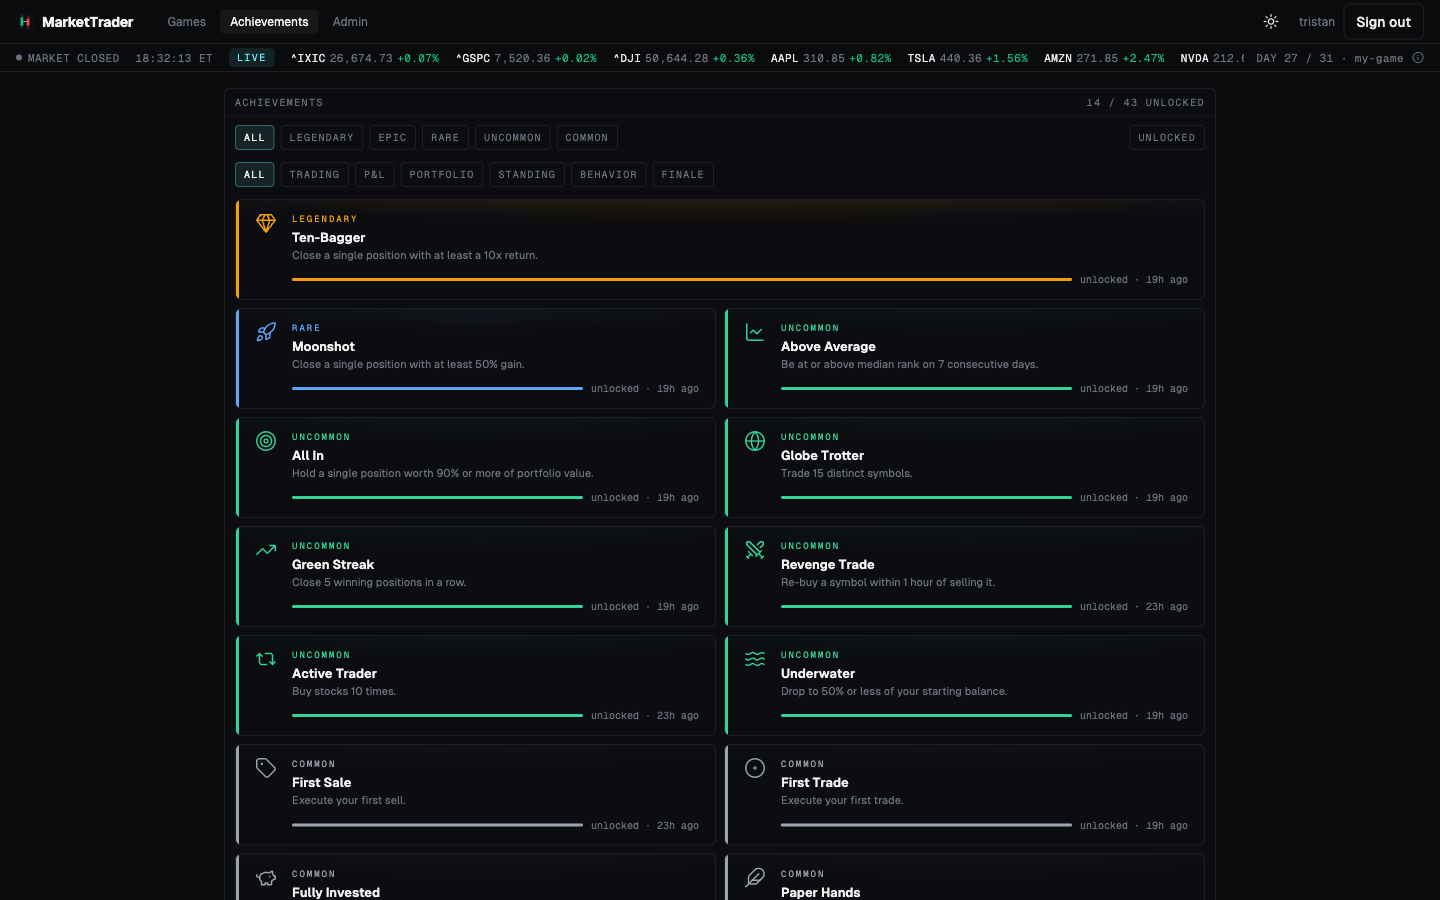
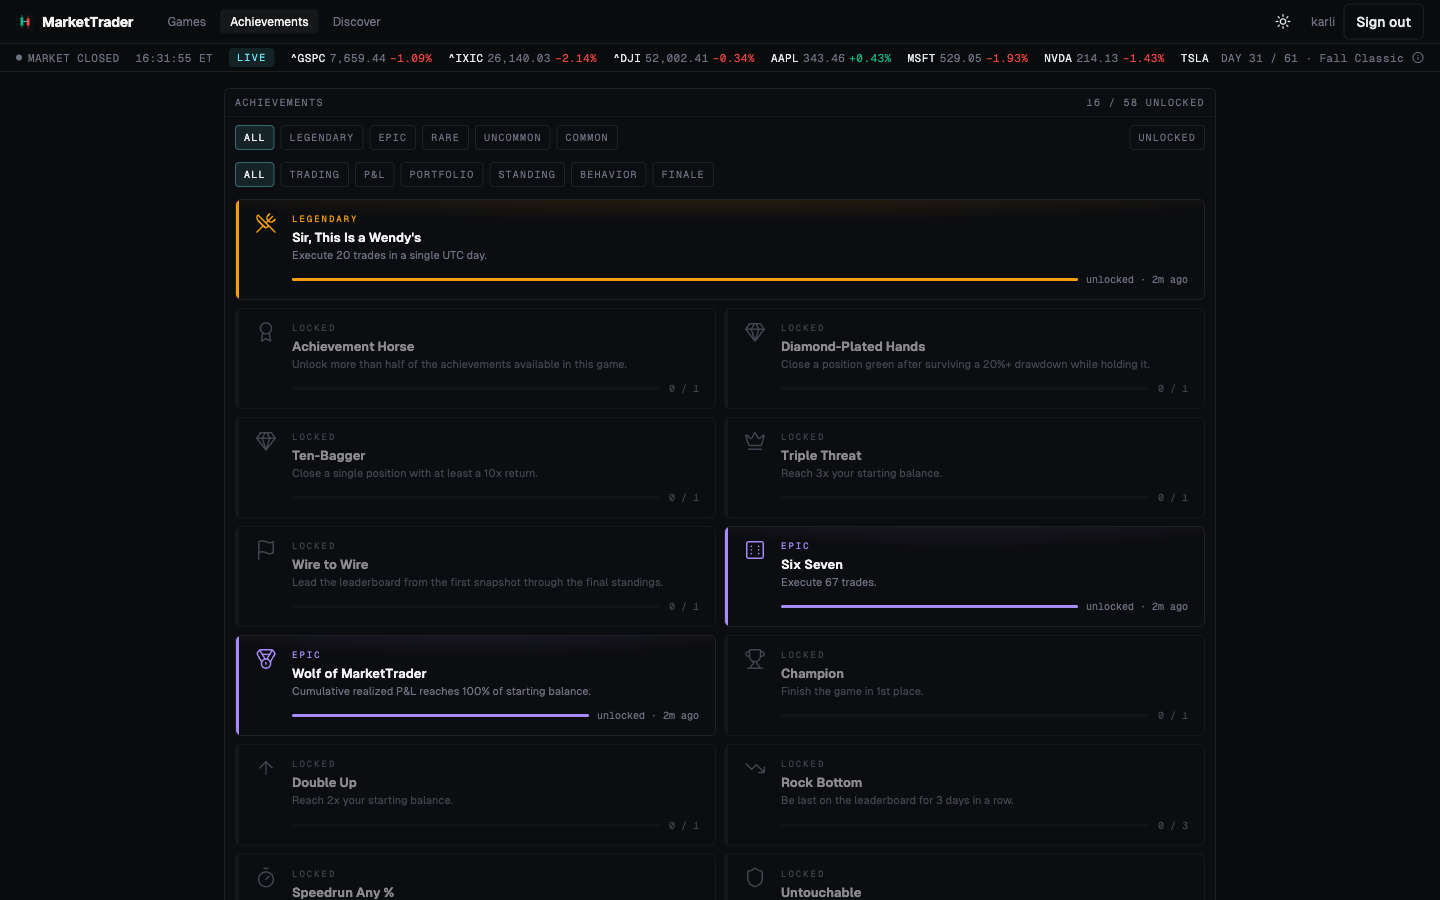
Readme improvement

diff --git a/README.md b/README.md
@@ -4,272 +4,176 @@ A virtual stock trading tournament platform. Groups of friends create a **game**
 
 ![MarketTrader arena view](docs/screenshots/hero.png)
 
-## AI Disclaimer
-
-This project is being developped entirely by an AI (Claude Code). Each commit generated by Claude is signed by Claude. It received minimal human supervision.
-
-Use at your own risk as I make no guarantee about the correctness, security, or reliability of the codebase.
-
-## What It Does
-
-Create a game, invite friends, and trade real stocks at live market prices with virtual cash. The platform tracks portfolio value continuously, broadcasts every leaderboard change over WebSocket, and rewards consistent (or chaotic) play with [43 unlockable achievements](docs/achievements.md) across six categories.
-
-Behind the trading desk: market / limit / stop / stop-limit / bracket orders, GTC time-in-force, watchlists, historical sparklines, light/dark themes, and a full admin panel for operators.
+> **AI disclaimer.** This project is being developed entirely by an AI (Claude Code). Each commit generated by Claude is signed by Claude. It received minimal human supervision. Use at your own risk as I make no guarantee about the correctness, security, or reliability of the codebase.
 
 ## Features
 
-**Authentication & users**
-
-- Registration and login with JWT access tokens + HttpOnly refresh cookies
-- Admin role with elevated permissions across users, games, trades, and audits
-
 **Games**
 
-- Create, join, and list tournaments; status auto-recomputed (`pending` / `active` / `ended`)
-- Per-game configurable rules: short selling, allowed order types, starting balance, achievements on/off
-- Public "featured games" leaderboards visible without an account
+- Create public or private tournaments, share them with an invite link, or browse open public games
+- Per-game rules: starting balance, duration, allowed order types, GTC on/off, achievements on/off
+- Featured-game leaderboards on the login page, visible without an account
 
 **Trading**
 
-- Five order types: market, limit, stop, stop-limit, bracket (take-profit + stop-loss legs)
-- Day or GTC time-in-force; working-order queue with cancel
-- Pending-trade and trade-history endpoints; portfolio snapshots updated in real time
+- Market, limit, stop, stop-limit, and bracket (take-profit + stop-loss) orders, day or GTC
+- Market-hours aware: orders placed while the market is closed settle at the next open
+- Live portfolio value and P&L, plus full trade history
 
-**Market data**
+**Research**
 
-- Pluggable `StockProvider` interface (Yahoo Finance default; swap to Alpaca or Polygon via `STOCK_PROVIDER`)
-- Live quotes (price, change, change %), OHLC bars, market status (open / closed / pre / after)
-- Symbol search and a per-symbol detail page
+- Candlestick or line charts with volume and markers for your own trades
+- **Discover** page: daily S&P 500 picks per game, plus top gainers, losers, most active, and trending
+- **AI analysis** (optional): one click returns a BUY / HOLD / SELL verdict with bull and bear points, generated server-side through OpenRouter and cached for every player
+- Watchlists with free-form per-symbol notes; symbol search and a detail page per ticker
 
-**Real-time arena**
+**Compete**
 
-- Three-pane responsive grid: portfolio, ticker tape, quote header, TradingView chart, holdings, watchlist, activity, leaderboard, symbol search
-- Live WebSocket updates for prices, leaderboard ranks, and trade fills
-- Collapses to single column on narrow viewports
+- Live leaderboard over WebSocket, with per-player sparklines and a full page with race chart and podium
+- [Unlockable achievements](docs/achievements.md) across five rarity tiers, with progress tracking toward each one and an unlock toast when you earn it
+- Activity feed of trades and peer unlocks in the arena's right rail
 
-**Leaderboard**
+**Operate**
 
-- Live ranking by total portfolio value
-- Per-player sparklines with 1D / 5D / 10D / ALL ranges
-- Full leaderboard page with race chart, podium, and detailed standings
-
-**Achievements**
-
-- 43 unlockable badges across six categories (Trading, P&L, Portfolio, Standing, Behavior, Finale) with five rarity tiers from common to legendary
-- Two-beat unlock toast with rarity-colored glow, ring pulse, icon flare
-- Locked achievements are hidden from the player so unlocks stay surprising — only an "N more locked" tile reveals the count
-- See [docs/achievements.md](docs/achievements.md) for the full catalogue with preview images
-
-**Activity feed**
-
-- Merged chronological view of trades and peer achievement unlocks in the arena's right rail
-- Persists across reloads via WebSocket connect-time replay
-- Idempotent merge so REST seeds and live broadcasts never duplicate
-
-**Admin panel**
-
-- User and game CRUD; portfolio snapshot inspection; trade audit log
-- Per-game and platform-wide enable/disable per achievement
-- Force-unlock, reset, and set-progress per player + achievement (broadcasts a live toast to the target)
-- System view with WebSocket connection count, row counts per table, and price-cache controls
-
-**Resilient transport**
-
-- WebSocket auto-reconnect with exponential backoff and full unacked-unlock replay
-- REST seeds dedupe against live WebSocket broadcasts via composite keys
-
-**UX polish**
-
-- Light and dark theme (toggle persisted to localStorage)
-- `prefers-reduced-motion` honored across every animation
-- Geist Sans + Geist Mono with tabular numerals so currency columns line up
+- Admin panel: users, games, portfolios, trade audit log, achievement grants and resets, system stats
+- Live configuration: change cache TTLs, worker intervals, throttles and caps from `/admin/config` without a restart
+- Per-user abuse limits (rates, quotas, socket caps) with overrides, probation for new accounts, and a usage dashboard
+- Optional OpenTelemetry traces/metrics/logs and PostHog analytics. Both are off unless configured
+- Light and dark themes, responsive layout, `prefers-reduced-motion` honored throughout
 
 ## Tour
 
-> Screenshots may lag behind the latest UI — `pnpm dev` and click around to see the live version.
+> Screenshots may lag behind the latest UI. Run `pnpm dev` and click around to see the live version.
 
 ### Arena
 
 ![Arena: portfolio, chart, holdings, watchlist, leaderboard, activity](docs/screenshots/arena.png)
 
-_The main trading view. Portfolio on the left, TradingView chart and holdings down the middle, watchlist and activity feed on the right, live leaderboard underneath._
+_The main trading view. Portfolio and holdings are on the left. The leaderboard, quote and chart sit in the center, with candlesticks, volume, your buys and your average cost. Discover picks, the watchlist and the activity feed are on the right._
+
+### Discover
+
+![Discover: daily S&P 500 picks and market movers](docs/screenshots/discover.png)
+
+_Twenty S&P 500 stocks drawn for this game each session, plus the previous session's top gainers, losers, most active, and trending._
+
+### AI analysis
+
+![Analysis panel: BUY verdict, summary, bull and bear case](docs/screenshots/analysis.png)
+
+_One click on **Analyze** returns a verdict with a summary and bull and bear points. A cached result is free for every other player who asks._
 
 ### Leaderboard
 
 ![Leaderboard: race chart, podium, standings, sparklines](docs/screenshots/leaderboard.png)
 
-_Race chart traces every player's portfolio value over the game's history. The podium pins the top three; the standings table below carries inline sparklines per player._
+_The race chart traces every player's portfolio value over the game. The podium pins the top three, and the standings carry inline sparklines._
 
 ### Achievements
 
-![Achievements page: rarity-colored cards plus a locked-count placeholder](docs/screenshots/achievements.png)
+![Achievements page: rarity-colored unlocked cards beside locked cards with progress](docs/screenshots/achievements.png)
 
-_Unlocked cards only — locked achievements stay hidden. The trailing "N more locked" tile tells the player there's more to discover without spoiling the surprise._
-
-## Architecture
-
-```
-packages/
-  server/     ← Fastify 5 REST API + WebSocket server (Node.js + TypeScript)
-  frontend/   ← React 19 + Vite SPA
-  shared/     ← TypeScript types only — API contracts shared between server and frontend
-```
-
-pnpm workspace monorepo. The `shared` package is the single source of truth for all API types — changes to the API surface produce TypeScript errors in both the server and the frontend before they reach runtime.
-
-## Tech Stack
-
-| Layer               | Choice                         | Why                                                       |
-| ------------------- | ------------------------------ | --------------------------------------------------------- |
-| Package manager     | pnpm workspaces                | Fast, disk-efficient, strict hoisting                     |
-| Server framework    | Fastify 5                      | Lowest overhead, schema-first, async-native               |
-| ORM                 | Drizzle ORM                    | Type-safe SQL, zero runtime overhead, dual-dialect        |
-| Database (prod)     | PostgreSQL 16                  | ACID, proven at scale                                     |
-| Database (dev/test) | SQLite (@libsql/client)        | Zero setup, in-memory for tests                           |
-| WebSocket           | `@fastify/websocket`           | Native Fastify integration, no Socket.io overhead         |
-| Auth                | JWT + argon2                   | Short-lived access tokens (15 min), 7-day refresh cookies |
-| Frontend framework  | React 19                       | Concurrent features, stable ecosystem                     |
-| Build tool          | Vite 6                         | Fastest HMR, native ESM, first-class TypeScript           |
-| Charts              | TradingView Lightweight Charts | Purpose-built for financial data                          |
-| UI components       | ShadCN/UI + Tailwind CSS       | Copy-own components, utility-first styling                |
-| Server state        | React Query v5                 | Caching, background refresh, optimistic updates           |
-| Client state        | Zustand                        | Minimal, zero-boilerplate global state                    |
-| Stock data          | Pluggable `StockProvider`      | Yahoo Finance default, swap to Alpaca/Polygon via env var |
+_Unlocked cards glow in their rarity color. Locked ones show what's needed and how far along you are, filterable by rarity and category._
 
 ## Getting Started
 
-### Prerequisites
-
-- Node.js 26+ (an `.nvmrc` is provided — `nvm use` picks it up)
-- Corepack — no longer bundled with Node 26: `npm install -g corepack`
-- pnpm (via corepack): `corepack enable`
-- Docker (optional, for PostgreSQL in dev)
-
-### Local development with SQLite
+**Prerequisites:** Node.js 26+ (`nvm use` reads `.nvmrc`), and pnpm via Corepack (`npm install -g corepack && corepack enable`). Corepack no longer ships with Node 26.
 
 ```bash
 pnpm install
 pnpm dev
 ```
 
-That's it. `pnpm dev` runs a small bootstrap step that:
+`pnpm dev` creates `.env` from `.env.example` if it is missing and generates a real `JWT_SECRET`. It then starts the server on `:3000` and the frontend on `:5173`. The frontend proxies `/api` to the server. The default database is SQLite at `./dev.db`, and pending migrations run at startup.
 
-- Creates `.env` from `.env.example` if missing
-- Generates a real `JWT_SECRET` if the value is still the placeholder
-- Runs pending Drizzle migrations against `./dev.db`
+**Your admin account.** On a database with no administrator, the server creates an `admin` account and prints its random password to the console once. Grab it from the `pnpm dev` output. Registering through the app never grants admin rights. Add further admins from the admin panel.
 
-It then starts the server (`:3000`) and frontend (`:5173`) in parallel. The frontend proxies `/api` to the server, so both services run independently.
+**PostgreSQL instead:** `docker-compose up`. See [`docs/deployment.md`](docs/deployment.md) for the full Docker/Postgres path.
 
-On a database with no administrator, the server creates an `admin` account with a randomly generated password and prints it to the console once at startup — grab it from the `pnpm dev` output. Registering through the app grants no privileges to anyone; further admins are added from the admin panel.
-
-The default SQLite client is `@libsql/client` and password hashing uses `@node-rs/argon2`, both of which ship prebuilt napi-rs binaries for Windows, Linux, and macOS — no C/C++ toolchain required.
-
-### Local development with Docker (PostgreSQL)
+### Common commands
 
 ```bash
-cp .env.example .env
-# Edit .env — set JWT_SECRET to a real random value
-
-docker-compose up
+pnpm test                         # all packages (in-memory SQLite, no setup)
+pnpm --filter server test:watch   # watch mode for one package
+pnpm typecheck
+pnpm lint
+pnpm e2e                          # Playwright end-to-end suite
+pnpm build                        # production build
+pnpm seed:history                 # generate fake game history to look at
 ```
 
-### Running tests
+To regenerate [`docs/achievements.md`](docs/achievements.md) and its preview images, run `pnpm dev`, then:
 
 ```bash
-# All packages
-pnpm test
-
-# Watch mode for a single package
-pnpm --filter server test:watch
-```
-
-Tests use libsql with a file-backed temporary database (unique per test run, cleaned up on process exit) — no env vars needed.
-
-### Type checking and linting
-
-```bash
-pnpm typecheck   # All packages
-pnpm lint        # All packages
-pnpm build       # Full production build
-```
-
-### Regenerating achievement docs
-
-```bash
-# Requires `pnpm dev` running and an admin account of your own.
 DOCS_ADMIN_USER=… DOCS_ADMIN_PASSWORD=… pnpm docs:achievements
 ```
 
-Re-captures one preview PNG per achievement and rewrites `docs/achievements.md`.
+## Configuration
 
-## Releasing a New Version
+The variables you're most likely to set:
 
-The app carries **one version**. `server`, `frontend`, and `shared` are a changesets `fixed`
-group, so they always move together — `packages/server/package.json` is the canonical copy, and
-its value is what `GET /api/version` reports. (The workspace root's version is vestigial and is
-not managed by changesets.)
+| Variable                                      | Default                 | Description                                                                          |
+| --------------------------------------------- | ----------------------- | ------------------------------------------------------------------------------------ |
+| `DATABASE_URL`                                | `./dev.db`              | SQLite path or `postgres://...` URL                                                  |
+| `JWT_SECRET`                                  | —                       | **Required**, ≥ 32 chars. `pnpm dev` generates one; otherwise `openssl rand -hex 32` |
+| `PORT`                                        | `3000`                  | HTTP server port                                                                     |
+| `CORS_ORIGIN`                                 | `http://localhost:5173` | Allowed frontend origin (must be set in production)                                  |
+| `STOCK_PROVIDER`                              | `yahoo`                 | `yahoo` (no key needed), `alpaca`, or `mock`                                         |
+| `ALPACA_API_KEY_ID` / `ALPACA_API_SECRET_KEY` | —                       | Required when `STOCK_PROVIDER=alpaca`                                                |
+| `OPENROUTER_API_KEY`                          | —                       | Turns on AI stock analysis. Unset means the feature is off                           |
+| `TRUST_PROXY`                                 | `loopback`              | Which proxy hops may set `X-Forwarded-For`. `true` is refused in production          |
+| `OTEL_EXPORTER_OTLP_ENDPOINT`                 | —                       | OTLP/HTTP collector. Unset means no telemetry                                        |
+| `POSTHOG_KEY` / `POSTHOG_HOST`                | —                       | Server-side PostHog. `VITE_POSTHOG_*` is the frontend equivalent                     |
 
-### 1. Describe each change as you make it
+[`.env.example`](.env.example) documents every option. Many of them can also be changed at runtime from the admin panel's **Configuration** page, which shows each option's effective value and where it came from.
 
-```bash
-pnpm changeset
+## Architecture
+
+```
+packages/
+  server/     ← Fastify 5 REST API + WebSocket server, background workers
+  frontend/   ← React 19 + Vite SPA
+  shared/     ← API contracts shared by server and frontend
+tools/        ← fake-history generator, logo assets
 ```
 
-Select the affected packages and the bump type (`patch` / `minor` / `major`), write a short
-description, and commit the generated `.changeset/*.md` file alongside the change itself. The
-highest bump among the pending changesets decides the release.
+A pnpm workspace monorepo. Every API type lives in `shared`, so a change to the API surface fails typecheck on both sides before it reaches runtime.
 
-To see what is queued without consuming anything:
+| Layer         | Choice                                                            |
+| ------------- | ----------------------------------------------------------------- |
+| Server        | Fastify 5, `@fastify/websocket`, Drizzle ORM                      |
+| Database      | SQLite (dev, tests, single-host prod) or PostgreSQL               |
+| Auth          | 15-min JWT access tokens + 7-day HttpOnly refresh cookies, argon2 |
+| Frontend      | React 19, Vite, ShadCN/UI + Tailwind CSS                          |
+| State         | React Query v5 (server), Zustand (client)                         |
+| Charts        | TradingView Lightweight Charts                                    |
+| Market data   | Pluggable `StockProvider` (Yahoo Finance default, Alpaca)         |
+| LLM           | OpenRouter, server-side only                                      |
+| Observability | OpenTelemetry + PostHog                                           |
+| Code scanning | CodeQL with project-specific invariant queries                    |
+
+The reasoning behind each choice is in [`docs/technical-decisions.md`](docs/technical-decisions.md).
+
+## Releasing
+
+The app has **one version**. `server`, `frontend`, and `shared` move together as a changesets `fixed` group, and `GET /api/version` reports it.
 
 ```bash
-pnpm changeset status
-```
-
-### 2. Cut the release
-
-```bash
-pnpm changeset version    # bump all three packages, write CHANGELOGs, consume the changesets
+pnpm changeset            # with each change: describe it, commit the .changeset/*.md file
+pnpm changeset version    # at release time: bump all three, write CHANGELOGs
 git commit -am "release: vX.Y.Z"
-pnpm release:tag          # cut a bare vX.Y.Z tag
-git push --follow-tags    # push before deploying
+pnpm release:tag          # bare vX.Y.Z tag (not `changeset tag`)
+git push --follow-tags    # push before deploying: deployment builds from origin
 ```
 
-The order is load-bearing: `pnpm release:tag` reads the version out of
-`packages/server/package.json`, so tagging before the bump is committed tags the _previous_
-version.
+Run the steps in that order: `release:tag` reads the version from the committed `packages/server/package.json`. Never run `pnpm changeset publish`, since nothing here goes to a registry. Cutting a version deploys nothing, and deploying changes no version. See [`.changeset/README.md`](.changeset/README.md) and ADR-014 for the details.
 
-### Gotchas
+## Documentation
 
-- **Push before deploying.** Deployment builds from `origin`, so a version commit that never
-  leaves your machine never reaches production.
-- **Commit `pnpm-lock.yaml` if `changeset version` dirties it.** Deployment installs with
-  `--frozen-lockfile` and will fail otherwise. (`workspace:*` specifiers embed no versions, so
-  normally the lockfile stays clean.)
-- **Never run `pnpm changeset publish`.** Nothing in this repo goes to a registry.
-- **Use `pnpm release:tag`, not `changeset tag`.** In a multi-package repo the latter emits
-  `@markettrader/server@1.2.0`-style tags, and `@` is not accepted in a ref that deploy-by-tag
-  takes.
-- **Versioning and deploying are independent.** Cutting a version deploys nothing, and deploying
-  changes no version — which is why several deploys can legitimately share a version number, and
-  why the build stamp pairs the version with a git SHA.
-
-Full rationale lives in the "Versioning and Releases" section of [`CLAUDE.md`](CLAUDE.md) and in
-ADR-014 of [`docs/technical-decisions.md`](docs/technical-decisions.md).
-
-## Environment Variables
-
-| Variable         | Default                 | Description                                                               |
-| ---------------- | ----------------------- | ------------------------------------------------------------------------- |
-| `DATABASE_URL`   | `./dev.db`              | Postgres URL (`postgres://...`) or SQLite path. `:memory:` for tests.     |
-| `JWT_SECRET`     | —                       | **Required.** Random 64-char hex string. Generate: `openssl rand -hex 32` |
-| `PORT`           | `3000`                  | HTTP server port                                                          |
-| `CORS_ORIGIN`    | `http://localhost:5173` | Allowed frontend origin                                                   |
-| `STOCK_PROVIDER` | `yahoo`                 | `yahoo` \| `alpaca` \| `polygon`                                          |
-| `ALPACA_API_KEY` | —                       | Required when `STOCK_PROVIDER=alpaca`                                     |
-| `NODE_ENV`       | `development`           | `development` \| `production` \| `test`                                   |
-
-## Where to Learn More
-
-- [`docs/achievements.md`](docs/achievements.md) — every achievement with a preview image, rarity, and target
-- [`docs/design.md`](docs/design.md) — feature roadmap and data-model design
-- [`docs/technical-decisions.md`](docs/technical-decisions.md) — ADR log; read before swapping a library or pattern
+- [`docs/design.md`](docs/design.md): features, data model, and known gaps
+- [`docs/technical-decisions.md`](docs/technical-decisions.md): the ADR log. Read it before swapping a library or pattern
+- [`docs/achievements.md`](docs/achievements.md): every achievement with a preview image
+- [`docs/deployment.md`](docs/deployment.md): the Docker/Postgres deployment path
+- [`docs/observability.md`](docs/observability.md): metric catalogue and instrumentation
+- [`docs/codeql.md`](docs/codeql.md): the custom CodeQL invariant queries
+- [`docs/pii-inventory.md`](docs/pii-inventory.md): every piece of personal data stored
